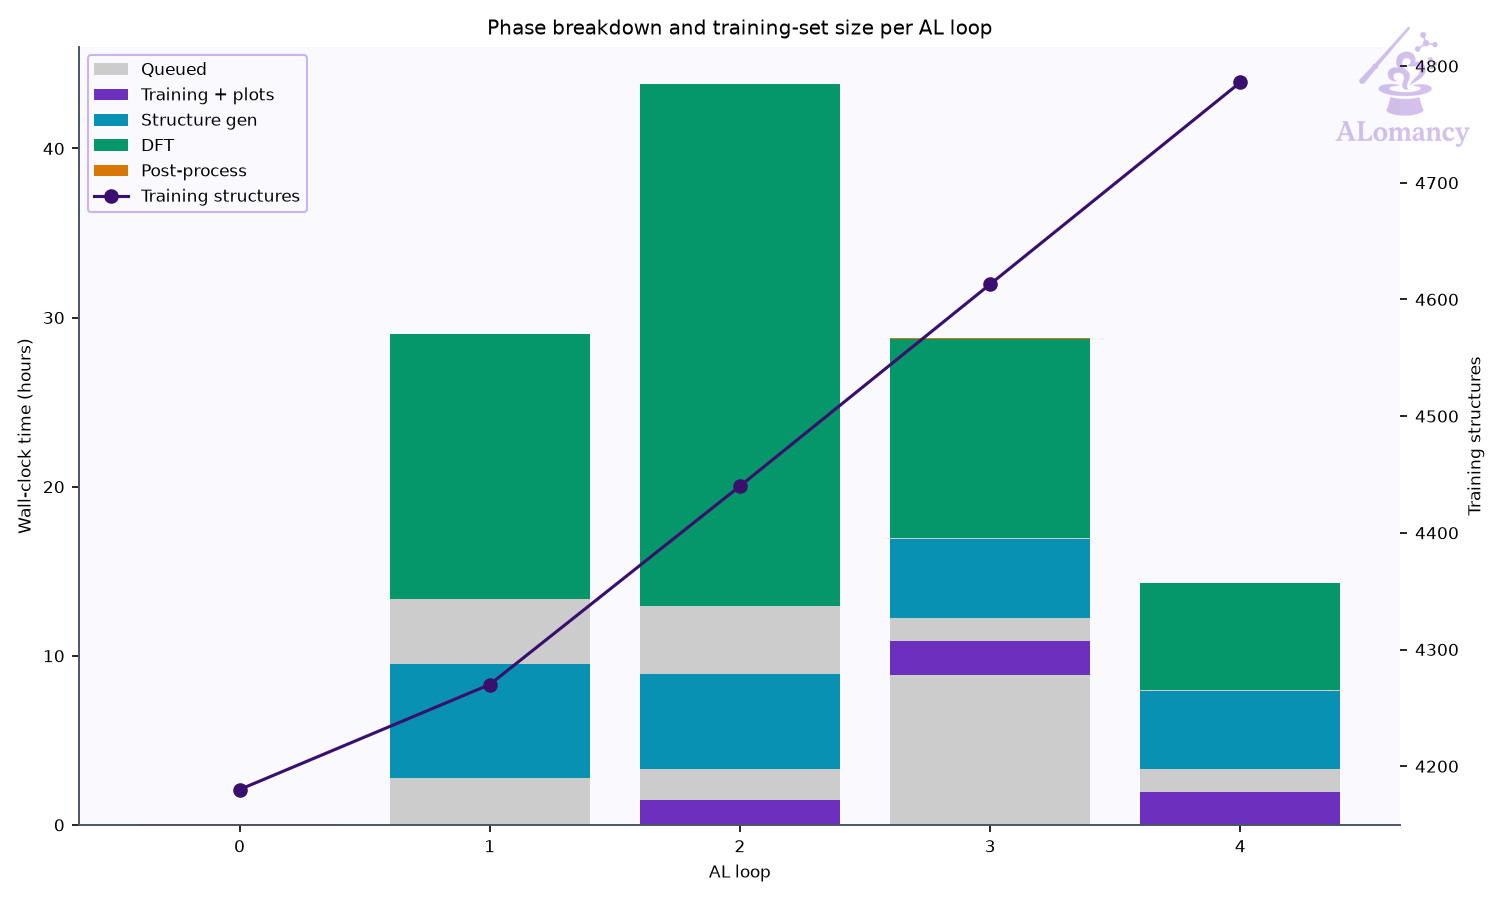
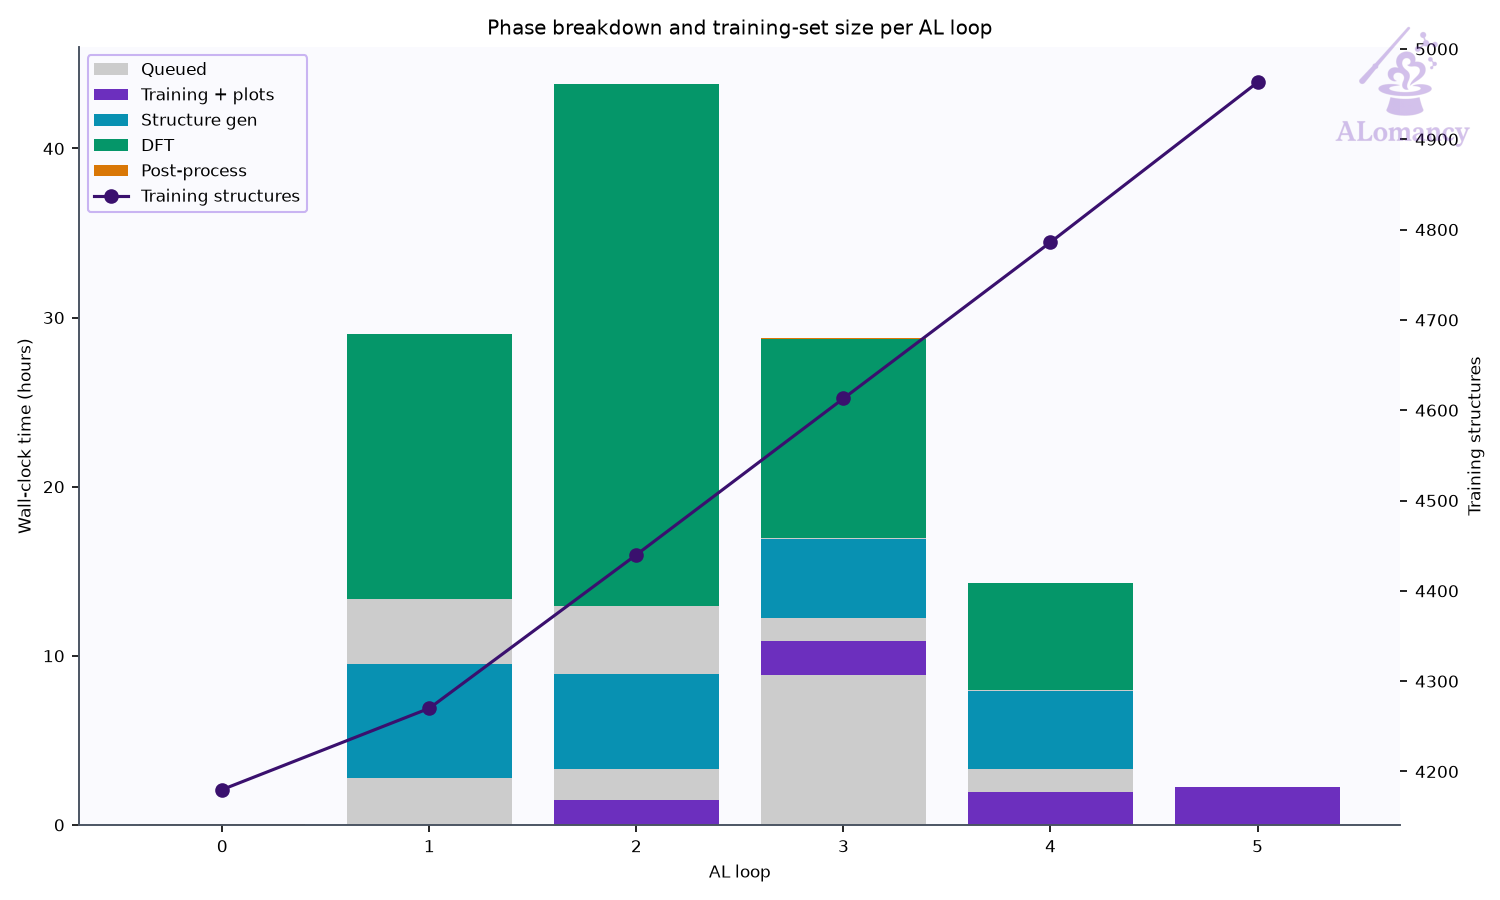
update good_c, yun_an

diff --git a/alomancy/good_c/report/report.md b/alomancy/good_c/report/report.md
@@ -1,25 +1,25 @@
-# ALomancy report: al_loop_4
+# ALomancy report: al_loop_5
 
-Workflow `committee_uncertainty` · trainer `mace` · generator `md` · evaluator `qe` · generated 2026-11-08T05:13:49
+Workflow `committee_uncertainty` · trainer `mace` · generator `md` · evaluator `qe` · generated 2026-11-08T07:28:11
 
-**Status:** 💡 1 info · 3 warning(s) logged
+**Status:** 💡 1 info · 0 warning(s) logged
 
 ## Headline
 
-| | loop 3 | loop 4 | change |
+| | loop 4 | loop 5 | change |
 |---|---:|---:|---:|
-| Best model test force MAE (eV/Å) | 0.205 | 0.201 | -2% |
-| Best model test energy MAE (meV/atom) | 21.9 | 20.9 | -5% |
-| Training structures | 4.71e+03 | 4.96e+03 | +5% |
-| Test structures | 490 | 520 | +6% |
-| New structures this loop | 295 | 300 | +2% |
-| Warnings / errors logged | 5 | 3 | -40% |
+| Best model test force MAE (eV/Å) | 0.201 | 0.198 | -2% |
+| Best model test energy MAE (meV/atom) | 20.9 | 26.5 | +27% |
+| Training structures | 4.96e+03 | 4.96e+03 | +0% |
+| Test structures | 520 | 520 | +0% |
+| New structures this loop | 300 | 0 | -100% |
+| Warnings / errors logged | 3 | 0 | -100% |
 
-Best model: fit_1 of 3 (chosen on the `valid` split).
+Best model: fit_2 of 3 (chosen on the `valid` split).
 
 ## Issues & suggestions
 
-- 💡 **overfitting**: The best model's test force MAE (0.201 eV/Å) is 2.4x its training MAE (0.0851 eV/Å). The test set covers configurations training doesn't: keep adding data, or raise general.dataset_kwargs.valid_fraction to select models on held-out data.
+- 💡 **overfitting**: The best model's test force MAE (0.198 eV/Å) is 2.7x its training MAE (0.0726 eV/Å). The test set covers configurations training doesn't: keep adding data, or raise general.dataset_kwargs.valid_fraction to select models on held-out data.
 
 ## Trends
 
@@ -30,6 +30,7 @@ Best model: fit_1 of 3 (chosen on the `valid` split).
 | 2 | 0.206 | 4449 | 298 | 99/100 | 98% | 0 | 4 |
 | 3 | 0.205 | 4708 | 295 | 98/100 | 100% | 0 | 5 |
 | 4 | 0.201 | 4963 | 300 | 100/100 | 99% | 0 | 3 |
+| 5 | 0.198 | 4963 | 0 | 0 | n/a | 0 | 0 |
 
 ![Best-model MAE per loop](plots/training_al_loop_mae_plot.png)
 
@@ -56,63 +57,23 @@ No predictions stored for this loop's best model.
 | on_hull_expansion | 11 | 0 | 9 | 20 |
 | **all** | **4963** | **520** | **1159** | **6642** |
 
-- Redundancy removal: 0 structure(s) flagged in total, 0 of this loop's 300 new.
+- Redundancy removal: 0 structure(s) flagged in total, 0 of this loop's 0 new.
 - Quality filters: high_force: 1150, formation_energy: 21.
 
 ![Training set composition](plots/training_set_composition.png)
 
-### Redundancy removal
-
-Redundancy removal flags near-duplicate training structures, so the model isn't trained on many copies of the same geometry. Each structure is described by `char_vec_128`: all of its interatomic distances, sorted and resampled to 128 values (`global_descriptor/atomic_distance_descriptor.make_char_vec`). Two structures count as duplicates when the Euclidean distance between their descriptors is below a tolerance: in database order, each structure still in the training set is kept unless it is within the tolerance of one already kept. The plot sweeps that tolerance and counts how many structures are kept at each value. **We are looking for plateaus** (shaded): ranges where the count doesn't change, so the result doesn't depend on the exact tolerance. The orange line (right axis) is the number of structures removed between consecutive tolerance steps, the gradient of the count: zero on a plateau. The start of the lowest plateau at least `general.redundancy_kwargs.min_plateau_width` of the swept range wide is used (dashed line). Nothing is flagged when no plateau qualifies, or when it would flag more than `max_flagged_fraction` of the structures; `general.redundancy_kwargs.tolerance` sets the tolerance directly.
-
-- This loop: 4,676 structures probed; the lowest plateau would flag more than 50% of them, so nothing was flagged.
-
-![Redundancy tolerance probe](plots/redundancy_tolerance_probe.png)
-
 ## DFT
 
-- Structures: 100 returned of 100 submitted (100 relaxed, 0 single point).
-- Geometry optimisation: 99/100 reached the force ceiling (0.05 eV/Å); steps mean 28.4, median 16, max 200 of 200 allowed.
-- Average DFT time per relaxation: 52.5 min (median 11.3, max 376.1; 100 structures).
-- Largest per-atom force after DFT: median 0.04, max 2.36 eV/Å.
-- DFT phase wall-clock: 6.4 h (mean queue time 3 min).
+No DFT this loop.
 
 ## MLIP training: mace
 
-- Best fit (fit_1) trained for 299 epochs, stage two from epoch 240; weights kept from epoch 244.
+- Best fit (fit_2) trained for 299 epochs, stage two from epoch 240; weights kept from epoch 296.
 
 ![Best model training curve](plots/best_model_training_curve.png)
-
-## Structure generation: MD
-
-- Runs: 50 (50 completed, 0 seed(s) replaced)
-- Candidate frames: 1000 (per completed run: median 200, min 200)
-- Ensemble npt, T = 300 K, timestep 0.3 fs
-
-![MD frames per run](plots/md_frames_per_run.png)
-
-![MD temperature](plots/md_temperature.png)
-
-## High-accuracy evaluation: QE
-
-![DFT geometry steps](plots/dft_geometry_steps.png)
-
-![DFT wall time](plots/dft_wall_time.png)
-
-## Selection: committee uncertainty
-
-- 824 candidates scored; 100 selected (max force std dev ≥ 0.253 eV/Å).
-
-![Committee force std dev](plots/committee_force_std_dev.png)
 
 ## Warnings and events
 
 | event | meaning | count |
 |---|---|---:|
-| `blown_up_excluded` |  | 1 |
-| `dft_summary` | DFT batch summary | 1 |
-| `jobs_started` | remote jobs started | 4 |
-| `md_summary` | MD summary | 1 |
-| `md_volume_expanded` |  | 1 |
-| `quality_filtered` | train/test quality filter passes | 2 |
-| `redundancy_cap_hit` | redundancy removal skipped (would flag too many) | 1 |
+| `jobs_started` | remote jobs started | 1 |
